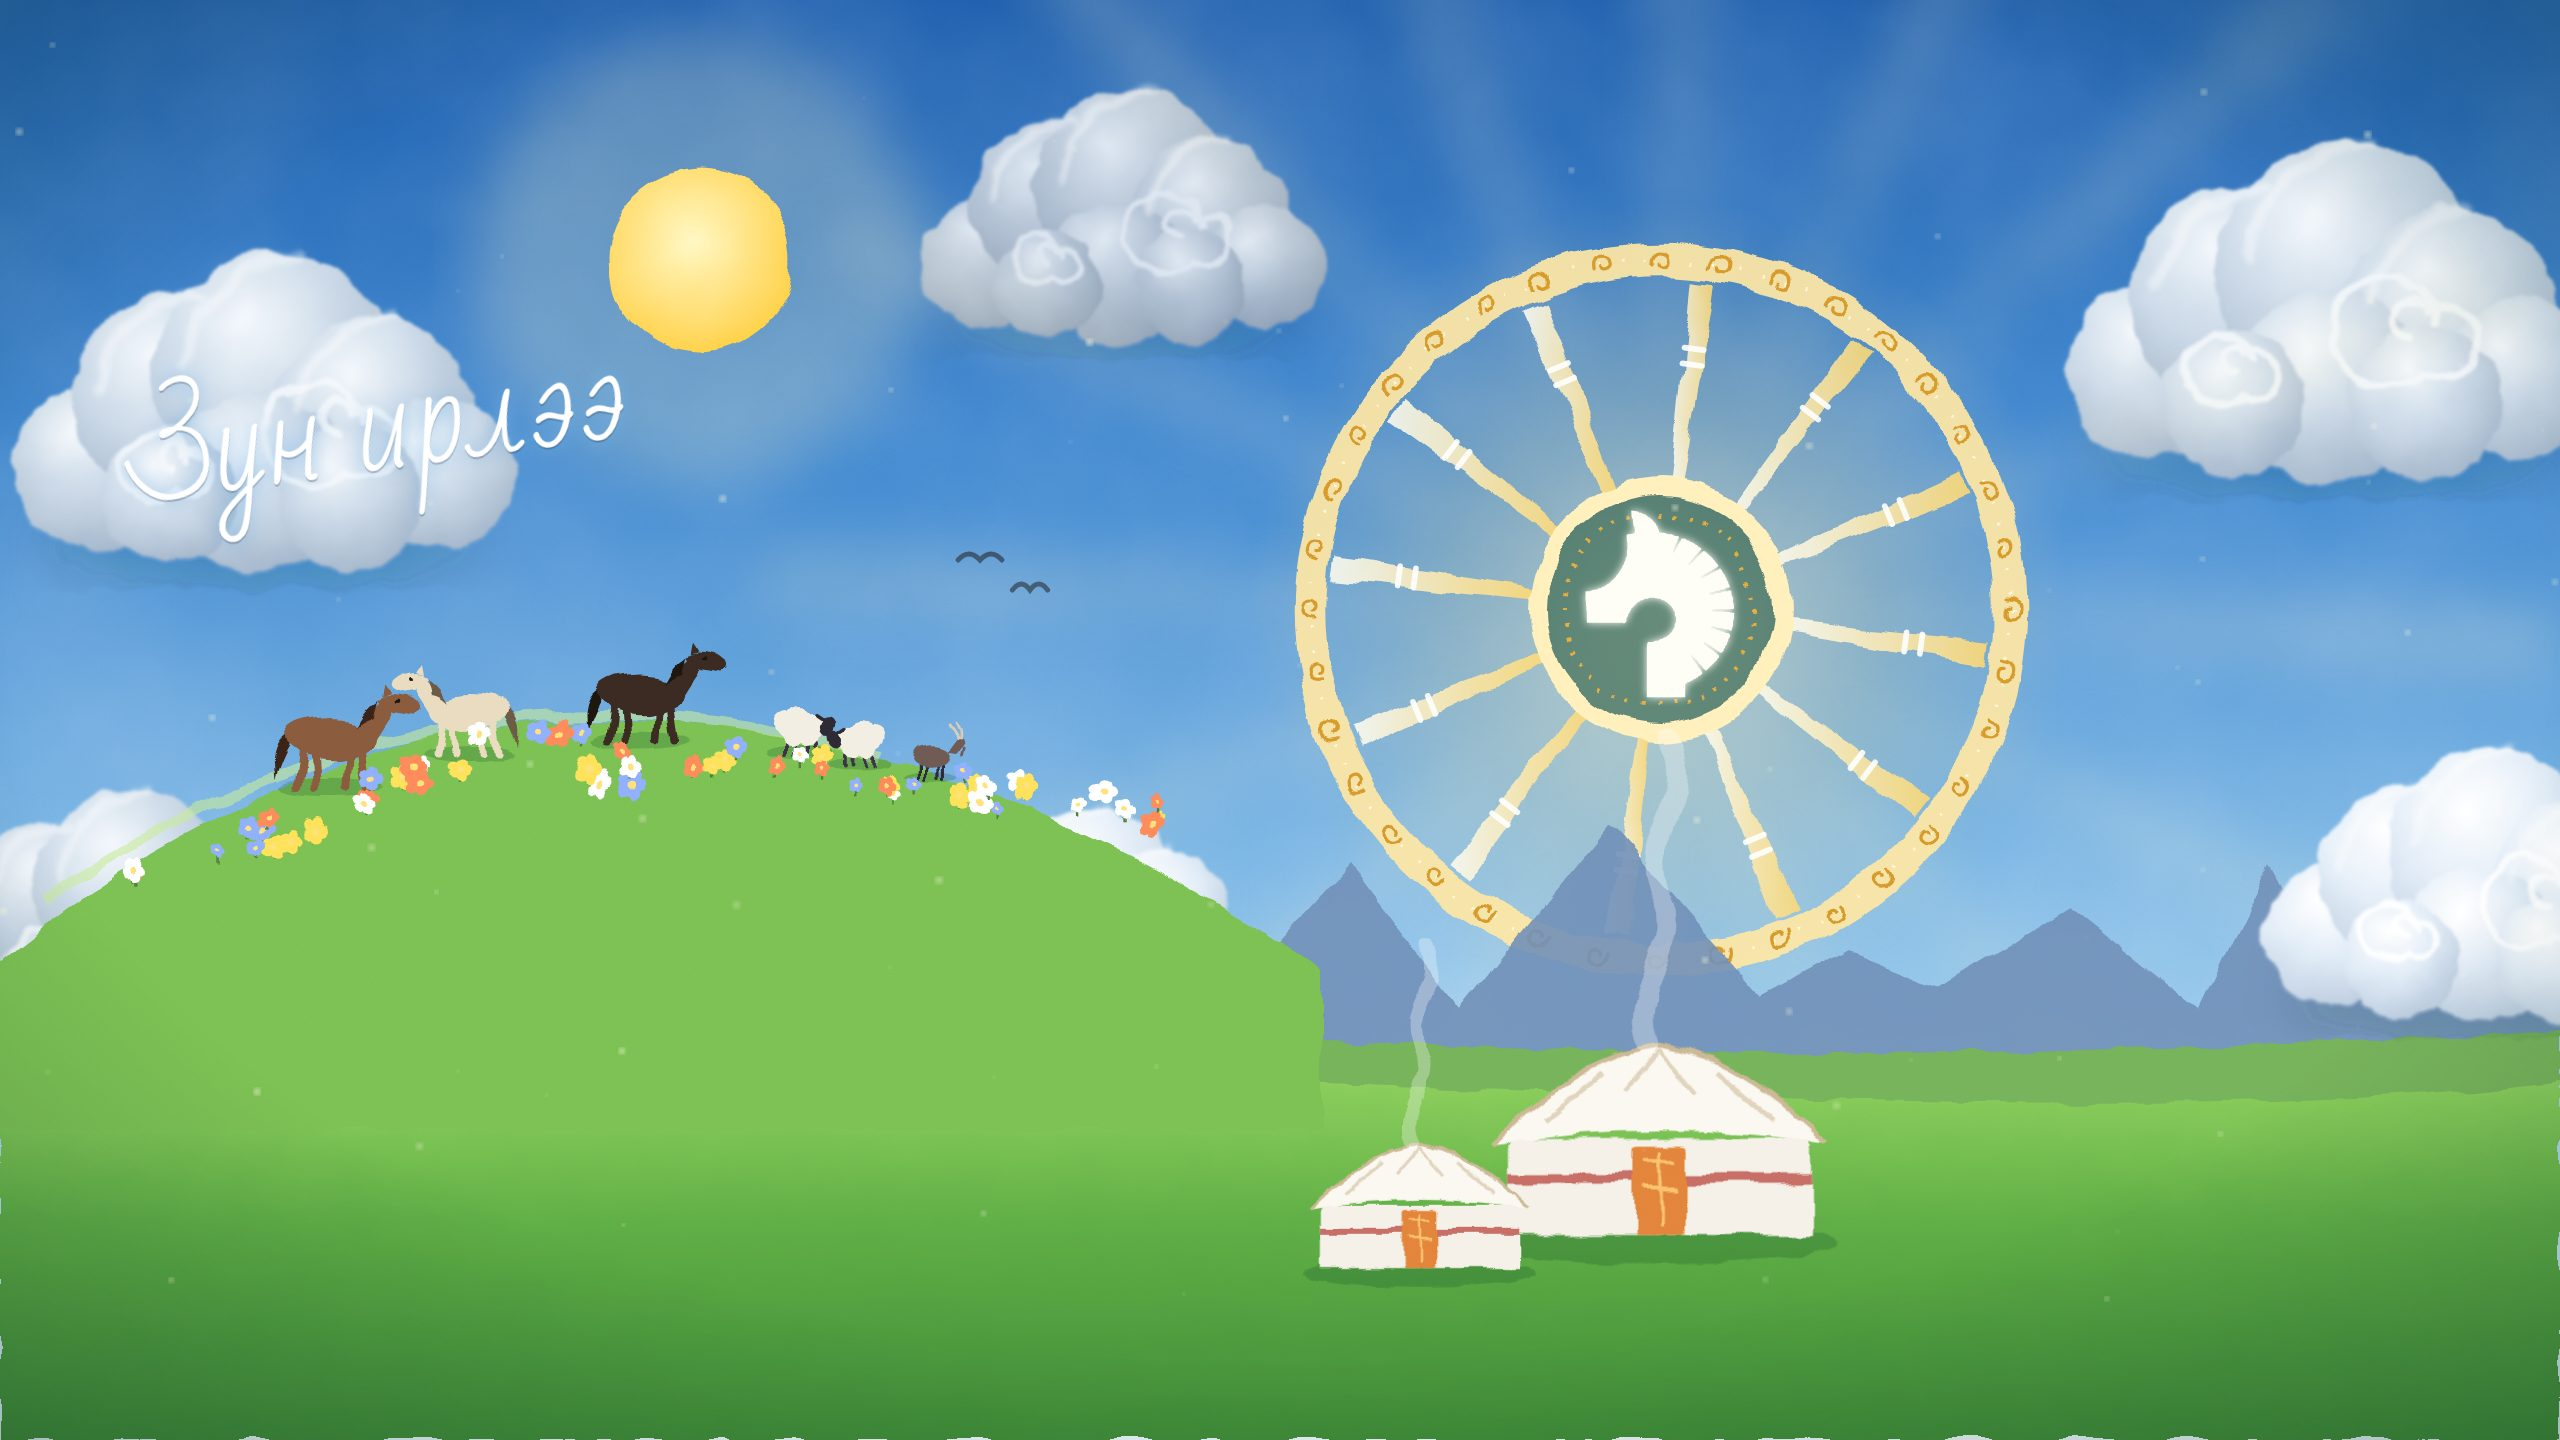
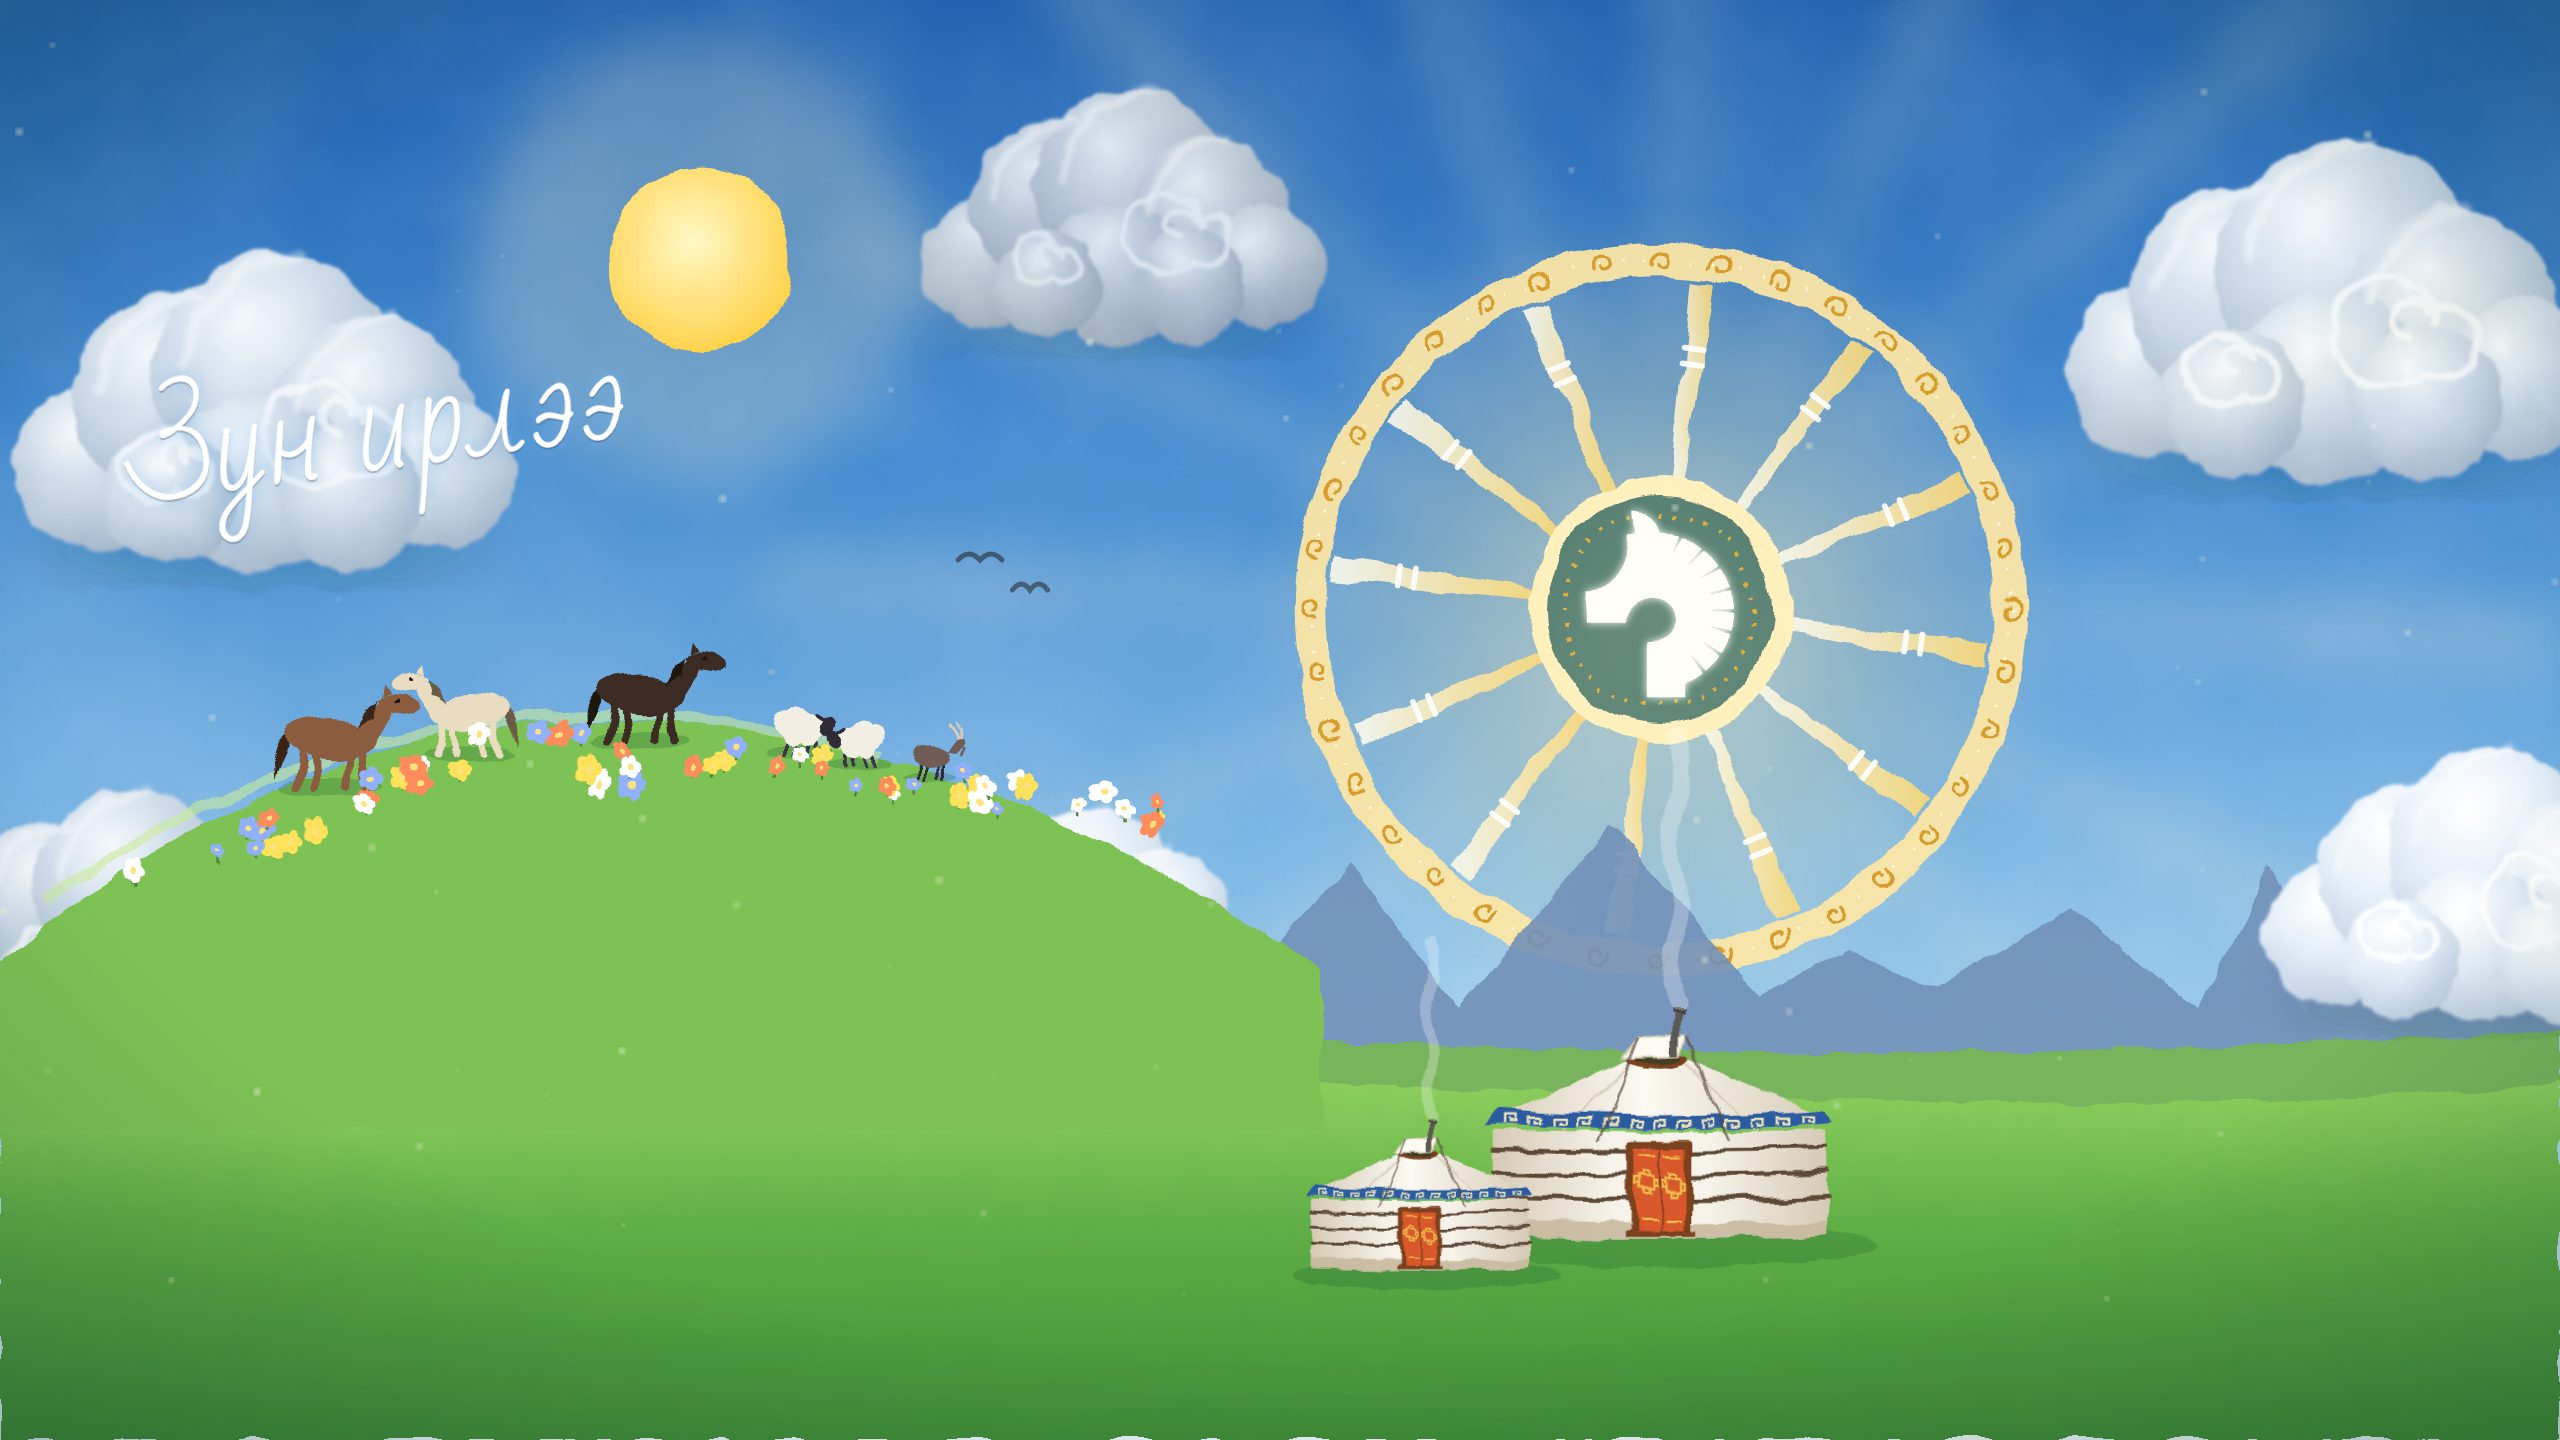
Hero gers drawn like real Mongol gers in all four seasons
Claude-Session: https://claude.ai/code/session_013mTHg5jK5EjhttnQogVYog

Changed region(s): [[0.5, 0.5625, 0.7188, 0.9062]]

diff --git a/css/style.css b/css/style.css
@@ -3507,14 +3507,14 @@ html.i18n-wait body { visibility: hidden; }
 .form__status.is-err { color: #b8322a; }
 /* Home hero changes with the season (html[data-season] is set in the page head) */
 .hero__bg--season { background: #1a1d36 center 40% / cover no-repeat; }
-html[data-season="winter"] .hero__bg--season { background-image: url(../assets/img/hero-winter.jpg?v=5); }
-html[data-season="spring"] .hero__bg--season { background-image: url(../assets/img/hero-spring.jpg?v=5); background-color: #7c9cc7; }
-html[data-season="summer"] .hero__bg--season { background-image: url(../assets/img/hero-summer.jpg?v=5); background-color: #3f86cf; }
-html[data-season="autumn"] .hero__bg--season { background-image: url(../assets/img/hero-autumn.jpg?v=5); background-color: #a65a5c; }
+html[data-season="winter"] .hero__bg--season { background-image: url(../assets/img/hero-winter.jpg?v=6); }
+html[data-season="spring"] .hero__bg--season { background-image: url(../assets/img/hero-spring.jpg?v=6); background-color: #7c9cc7; }
+html[data-season="summer"] .hero__bg--season { background-image: url(../assets/img/hero-summer.jpg?v=6); background-color: #3f86cf; }
+html[data-season="autumn"] .hero__bg--season { background-image: url(../assets/img/hero-autumn.jpg?v=6); background-color: #a65a5c; }
 @media (max-width: 700px) {
   .hero__bg--season { background-position: center top; }
-  html[data-season="winter"] .hero__bg--season { background-image: url(../assets/img/hero-winter-m.jpg?v=5); }
-  html[data-season="spring"] .hero__bg--season { background-image: url(../assets/img/hero-spring-m.jpg?v=5); }
-  html[data-season="summer"] .hero__bg--season { background-image: url(../assets/img/hero-summer-m.jpg?v=5); }
-  html[data-season="autumn"] .hero__bg--season { background-image: url(../assets/img/hero-autumn-m.jpg?v=5); }
+  html[data-season="winter"] .hero__bg--season { background-image: url(../assets/img/hero-winter-m.jpg?v=6); }
+  html[data-season="spring"] .hero__bg--season { background-image: url(../assets/img/hero-spring-m.jpg?v=6); }
+  html[data-season="summer"] .hero__bg--season { background-image: url(../assets/img/hero-summer-m.jpg?v=6); }
+  html[data-season="autumn"] .hero__bg--season { background-image: url(../assets/img/hero-autumn-m.jpg?v=6); }
 }

diff --git a/index.html b/index.html
@@ -26,7 +26,7 @@
   <link rel="preconnect" href="https://fonts.googleapis.com">
   <link rel="preconnect" href="https://fonts.gstatic.com" crossorigin>
   <link href="https://fonts.googleapis.com/css2?family=Inter:wght@400;500;600;700&family=Inter+Tight:wght@500;600;700&family=PT+Serif:ital@0;1&display=swap" rel="stylesheet">
-  <link rel="stylesheet" href="css/style.css?v=93">
+  <link rel="stylesheet" href="css/style.css?v=94">
   <script>
     (function () {
       var d = document.documentElement, s = null, l = null;
@@ -38,7 +38,7 @@
       var se = q || (m >= 3 && m <= 5 ? "spring" : m >= 6 && m <= 8 ? "summer" : m >= 9 && m <= 10 ? "autumn" : "winter");
       d.setAttribute("data-season", se);
       var pl = document.createElement("link"); pl.rel = "preload"; pl.as = "image"; pl.fetchPriority = "high";
-      pl.setAttribute("imagesrcset", "assets/img/hero-" + se + "-m.jpg?v=5 1080w, assets/img/hero-" + se + ".jpg?v=5 2560w");
+      pl.setAttribute("imagesrcset", "assets/img/hero-" + se + "-m.jpg?v=6 1080w, assets/img/hero-" + se + ".jpg?v=6 2560w");
       pl.setAttribute("imagesizes", "100vw"); document.head.appendChild(pl);
       // Mongolian is the default; English only when the visitor chose it.
       if (l !== "en") { d.setAttribute("data-lang", "mn"); d.lang = "mn"; d.classList.add("i18n-wait"); setTimeout(function () { d.classList.remove("i18n-wait"); }, 2500); }

diff --git a/culture/index.html b/culture/index.html
@@ -20,7 +20,7 @@
   <link rel="preconnect" href="https://fonts.googleapis.com">
   <link rel="preconnect" href="https://fonts.gstatic.com" crossorigin>
   <link href="https://fonts.googleapis.com/css2?family=Inter:wght@400;500;600;700&family=Inter+Tight:wght@500;600;700&family=PT+Serif:ital@0;1&display=swap" rel="stylesheet">
-  <link rel="stylesheet" href="../css/style.css?v=93">
+  <link rel="stylesheet" href="../css/style.css?v=94">
   <script>
     (function () {
       var d = document.documentElement, s = null, l = null;

diff --git a/edu.html b/edu.html
@@ -20,7 +20,7 @@
   <link rel="preconnect" href="https://fonts.googleapis.com">
   <link rel="preconnect" href="https://fonts.gstatic.com" crossorigin>
   <link href="https://fonts.googleapis.com/css2?family=Inter:wght@400;500;600;700&family=Inter+Tight:wght@500;600;700&family=PT+Serif:ital@0;1&display=swap" rel="stylesheet">
-  <link rel="stylesheet" href="css/style.css?v=93">
+  <link rel="stylesheet" href="css/style.css?v=94">
   <script>
     (function () {
       var d = document.documentElement, s = null, l = null;

diff --git a/environment.html b/environment.html
@@ -20,7 +20,7 @@
   <link rel="preconnect" href="https://fonts.googleapis.com">
   <link rel="preconnect" href="https://fonts.gstatic.com" crossorigin>
   <link href="https://fonts.googleapis.com/css2?family=Inter:wght@400;500;600;700&family=Inter+Tight:wght@500;600;700&family=PT+Serif:ital@0;1&display=swap" rel="stylesheet">
-  <link rel="stylesheet" href="css/style.css?v=93">
+  <link rel="stylesheet" href="css/style.css?v=94">
   <script>
     (function () {
       var d = document.documentElement, s = null, l = null;

diff --git a/member.html b/member.html
@@ -20,7 +20,7 @@
   <link rel="preconnect" href="https://fonts.googleapis.com">
   <link rel="preconnect" href="https://fonts.gstatic.com" crossorigin>
   <link href="https://fonts.googleapis.com/css2?family=Inter:wght@400;500;600;700&family=Inter+Tight:wght@500;600;700&family=PT+Serif:ital@0;1&display=swap" rel="stylesheet">
-  <link rel="stylesheet" href="css/style.css?v=93">
+  <link rel="stylesheet" href="css/style.css?v=94">
   <script>
     (function () {
       var d = document.documentElement, s = null, l = null;

diff --git a/plan.html b/plan.html
@@ -20,7 +20,7 @@
   <link rel="preconnect" href="https://fonts.googleapis.com">
   <link rel="preconnect" href="https://fonts.gstatic.com" crossorigin>
   <link href="https://fonts.googleapis.com/css2?family=Inter:wght@400;500;600;700&family=Inter+Tight:wght@500;600;700&family=PT+Serif:ital@0;1&display=swap" rel="stylesheet">
-  <link rel="stylesheet" href="css/style.css?v=93">
+  <link rel="stylesheet" href="css/style.css?v=94">
   <script>
     (function () {
       var d = document.documentElement, s = null, l = null;

diff --git a/research.html b/research.html
@@ -20,7 +20,7 @@
   <link rel="preconnect" href="https://fonts.googleapis.com">
   <link rel="preconnect" href="https://fonts.gstatic.com" crossorigin>
   <link href="https://fonts.googleapis.com/css2?family=Inter:wght@400;500;600;700&family=Inter+Tight:wght@500;600;700&family=PT+Serif:ital@0;1&display=swap" rel="stylesheet">
-  <link rel="stylesheet" href="css/style.css?v=93">
+  <link rel="stylesheet" href="css/style.css?v=94">
   <script>
     (function () {
       var d = document.documentElement, s = null, l = null;
